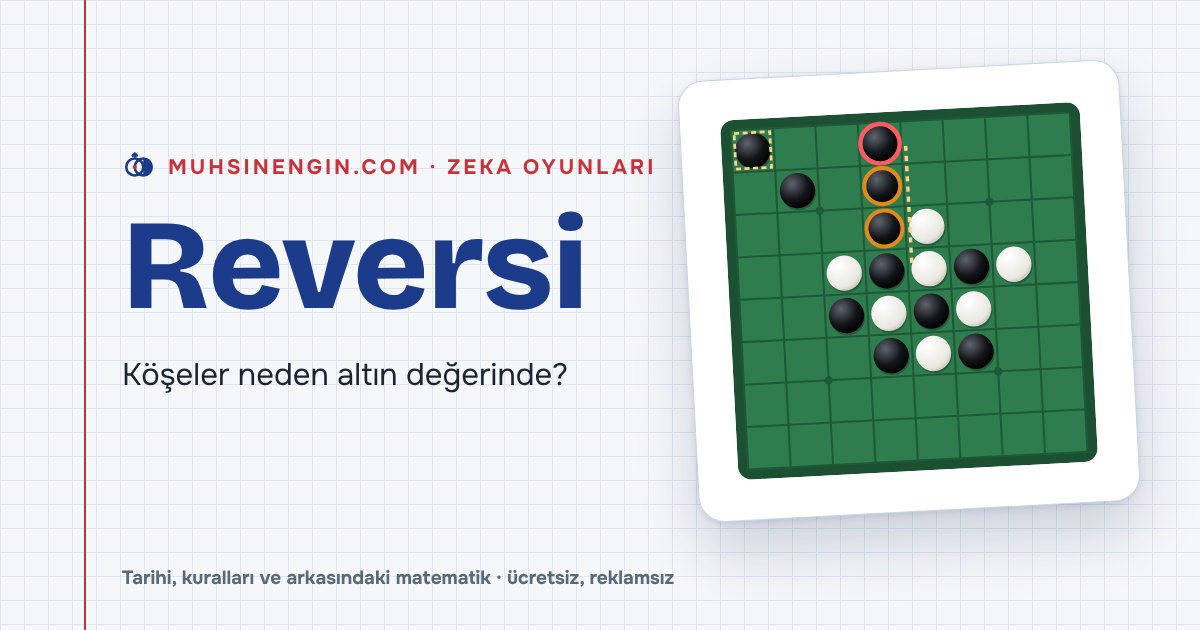
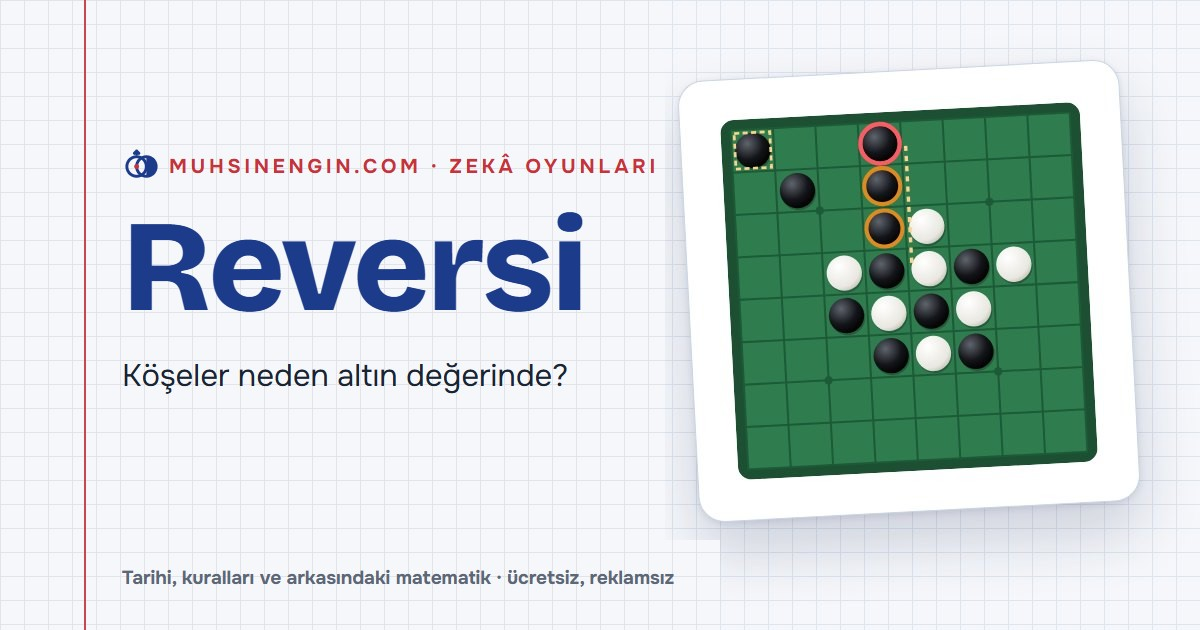
og: paylaşım görsellerinde Zekâ yazımı ve yeni ana sayfa görseli
- 7 oyun kartı: üst satır "MUHSINENGIN.COM · ZEKÂ OYUNLARI"
- zeka-oyunlari.jpg başlık "Zekâ Oyunları", oyun-salonu.jpg "7 zekâ oyununu"
- ana.jpg: yeni tanıtım cümlesi ve yeni açılışın ekran görüntüsü
- araclar/og-uret.cjs: görselleri üreten araç (HTML şablonu + Playwright);
  sağdaki çizim mevcut görselden korunur. Kullanımı araclar/BENIOKU.md'de.
- Düzen, renk ve yazı tipleri eskisiyle ölçülerek eşitlendi; boyut ve adlar aynı

diff --git a/araclar/BENIOKU.md b/araclar/BENIOKU.md
@@ -6,6 +6,10 @@ Sitenin otomatik kontrolleri. GitHub'daki **Site kontrolü** iş akışı (`.git
 | --- | --- |
 | `konsol-tarama.cjs` | Her sayfayı gerçek bir tarayıcıda (masaüstü 1280 px ve telefon 390 px) açar; JavaScript hatası, `console.error`, site içinde 404 dönen dosya ve telefonda yatay taşma arar. Hata varsa iş akışı kırmızı olur. |
 | `lighthouserc.json` | Lighthouse eşikleri: erişilebilirlik en az 95 (altı kırmızı), en iyi uygulamalar ve SEO 90, performans 50 (altı yalnızca uyarı). |
+| `og-uret.cjs` | Paylaşım görsellerini (`ortak/og/*.jpg`, 1200×630) üretir. Metinler dosyanın başındaki `KARTLAR` listesindedir; sağdaki çizim mevcut görselden korunur, `ana.jpg`'nin sağına sitenin güncel ekran görüntüsü konur. İş akışında çalışmaz, elle çalıştırılır. |
+
+Paylaşım görsellerini yeniden üretmek (yerel sunucu 8765'te açıkken; tek kart için adını yaz, ör. `ana`):
+`node araclar/og-uret.cjs [ad ...]` · kurulu Chrome ile: `OG_KANAL=chrome node araclar/og-uret.cjs` · başka klasöre yazmak için `--cikti <klasör>`.
 
 Bilgisayarda çalıştırmak için (Node ve Python gerekir):
 
